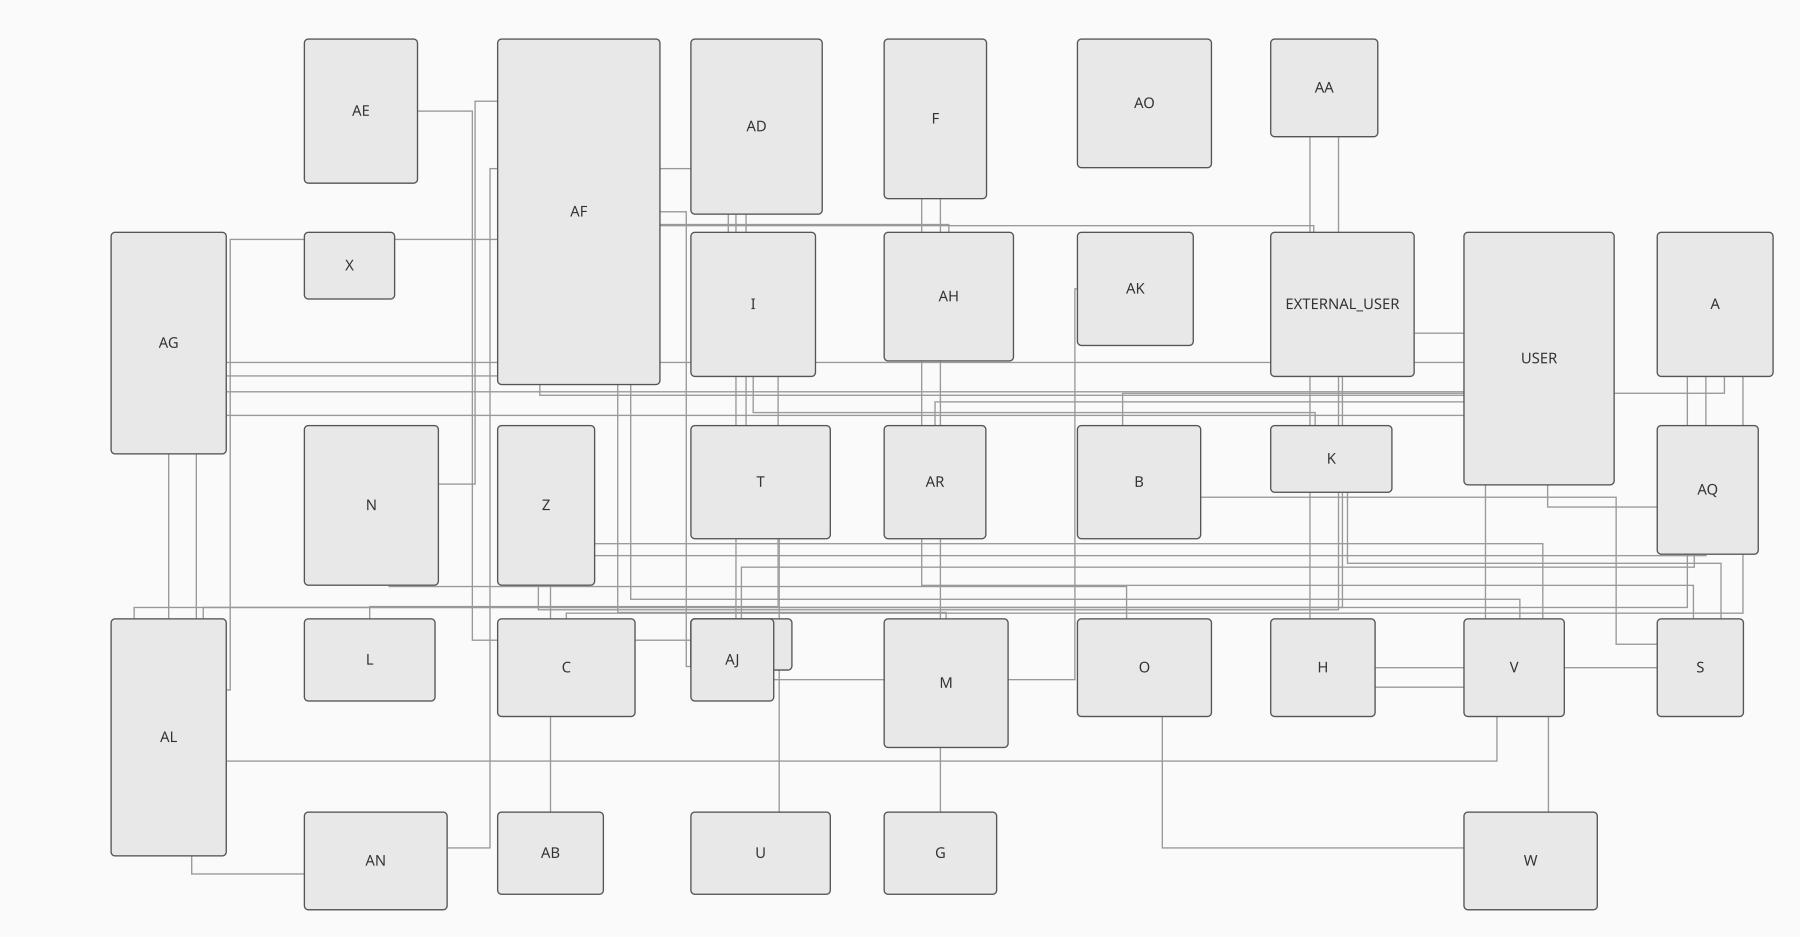
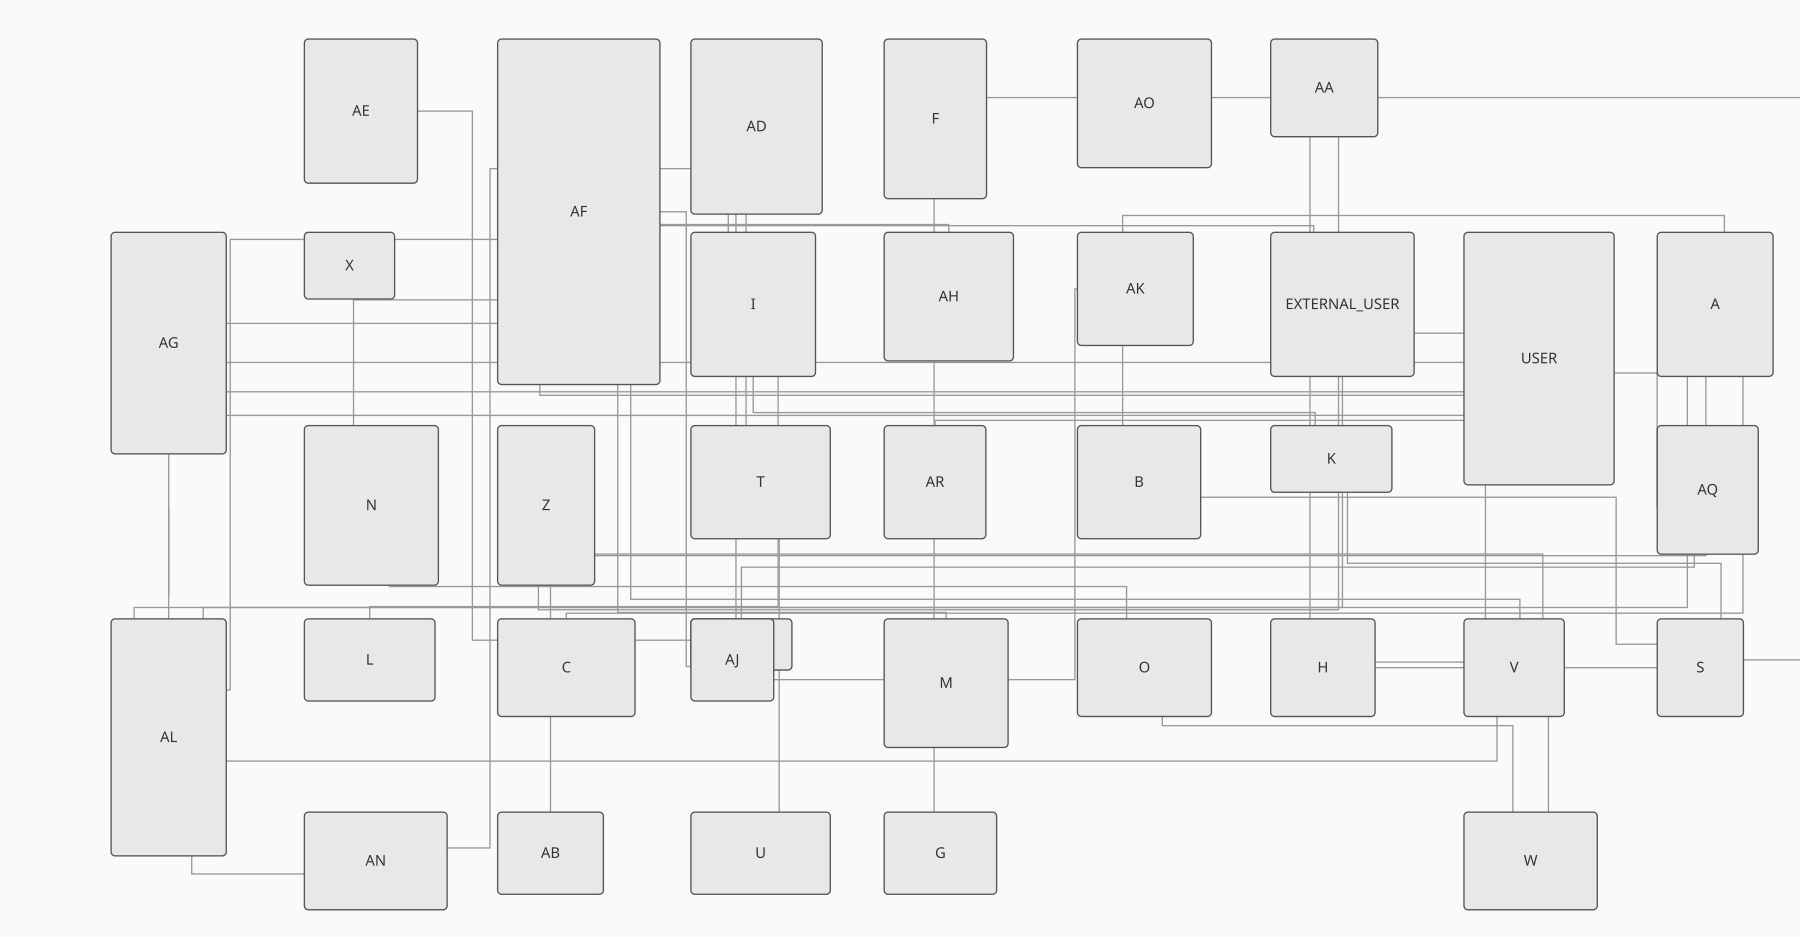
The router sees what is already on the canvas
Sequential routing: frozen connectors route first among themselves, the
migration's edges follow in index order, and every candidate pays for
its crossings against everything already placed, so each pair is priced
exactly once and a route can dodge a connector instead of crossing it.
The detour grid widens to six steps beyond the channel. Calibration
against the hand layout improves again, 33 and 491 to 27 and 323, with
the whole history in the run's own printout. The straight section is
byte-identical, which is the style boolean proving the change lives
entirely in the routed model. The fixture renderer carries the same
rule; every pin and number re-derived.

diff --git a/example/erd/erd.c b/example/erd/erd.c
@@ -197,6 +197,32 @@ static void anchor(const Erd *g, const double *v, long e0, long e1, Route *r)
     }
 }
 
+/* Which edges edge A can already see when it routes. Mode 0 is the frozen pass (earlier
+ * frozen edges only), mode 1 the scoring pass (all frozen, plus earlier migration edges),
+ * mode 2 the full report (everything earlier). Later edges pay for a pair's crossing, so
+ * each pair is priced exactly once. */
+static int routed_before(const Erd *g, long b, long a, int mode)
+{
+    if (b == a) return 0;
+    if (mode == 0) return !g->enew[b] && b < a;
+    if (mode == 1) return !g->enew[b] || b < a;
+    return b < a;
+}
+
+static long routes_cross(const Route *p, const Route *q);
+
+static long cand_cross(const Erd *g, const Route *rt, const Route *cand, long a, int mode)
+{
+    long b, k = 0;
+    for (b = 0; b < g->ne; b++) {
+        if (!routed_before(g, b, a, mode)) continue;
+        if (g->e[a][0] == g->e[b][0] || g->e[a][0] == g->e[b][1] ||
+            g->e[a][1] == g->e[b][0] || g->e[a][1] == g->e[b][1]) continue;
+        k += routes_cross(cand, &rt[b]);
+    }
+    return k;
+}
+
 /* Route edge A as Workbench draws one: orthogonal segments at 0 and 90 degrees, never a
  * diagonal. The candidates are the two L shapes and Z shapes whose middle segment slides
  * across the channel between the endpoints and one step beyond it on either side, which is
@@ -206,13 +232,15 @@ static void anchor(const Erd *g, const double *v, long e0, long e1, Route *r)
  * frozen edges get routed against the frozen diagram alone. Returns the route's own cost,
  * penetration at W_TIER plus length; crossings are the caller's to add, since they depend on
  * every other route. */
-static double route_edge(const Erd *g, const double *v, long a, long ntab, Route *r,
-                         double *pen_out)
+static double route_edge(const Erd *g, const double *v, long a, long ntab,
+                         const Route *rt, int mode, Route *r,
+                         double *pen_out, long *crs_out)
 {
-    static const double T[7] = { -0.25, 0.15, 0.3, 0.5, 0.7, 0.85, 1.25 };
+    static const double TIN[5]  = { 0.15, 0.3, 0.5, 0.7, 0.85 };
+    static const double TOUT[6] = { -0.75, -0.5, -0.25, 1.25, 1.5, 1.75 };
     double ax, ay, bx, by, bestcost = 0, bestpen = 0;
-    long e0 = g->e[a][0], e1 = g->e[a][1];
-    int c, have = 0, nc = g->straight ? 1 : 16;
+    long e0 = g->e[a][0], e1 = g->e[a][1], bestcrs = 0;
+    int c, have = 0, nc = 24;
     pos(g, v, e0, &ax, &ay);
     pos(g, v, e1, &bx, &by);
     if (g->straight) {
@@ -232,8 +260,13 @@ static double route_edge(const Erd *g, const double *v, long a, long ntab, Route
             pen += through(g, v, i, cand.px[0], cand.py[0], cand.px[1], cand.py[1]);
         }
         *r = cand;
-        if (pen_out) *pen_out = pen;
-        return W_TIER * pen + seglen(cand.px[1] - cand.px[0], cand.py[1] - cand.py[0]);
+        {
+            long crs = cand_cross(g, rt, &cand, a, mode);
+            if (pen_out) *pen_out = pen;
+            if (crs_out) *crs_out = crs;
+            return W_TIER * (pen + (double)crs)
+                 + seglen(cand.px[1] - cand.px[0], cand.py[1] - cand.py[0]);
+        }
     }
     for (c = 0; c < nc; c++) {
         Route cand;
@@ -250,13 +283,23 @@ static double route_edge(const Erd *g, const double *v, long a, long ntab, Route
         } else if (c == 1) {                /* L: vertical, then horizontal */
             cand.px[0] = xa; cand.py[0] = ay; cand.px[1] = xa; cand.py[1] = yb;
             cand.px[2] = bx; cand.py[2] = yb; cand.np = 3;
-        } else if (c < 9) {                 /* Z: vertical middle segment */
-            double mx = ax + T[c - 2] * (bx - ax);
+        } else if (c < 7) {                 /* Z, vertical middle, inside the channel */
+            double mx = ax + TIN[c - 2] * (bx - ax);
             cand.px[0] = ax; cand.py[0] = ya; cand.px[1] = mx; cand.py[1] = ya;
             cand.px[2] = mx; cand.py[2] = yb; cand.px[3] = bx; cand.py[3] = yb;
             cand.np = 4;
-        } else {                            /* Z: horizontal middle segment */
-            double my = ay + T[c - 9] * (by - ay);
+        } else if (c < 12) {                /* Z, horizontal middle, inside the channel */
+            double my = ay + TIN[c - 7] * (by - ay);
+            cand.px[0] = xa; cand.py[0] = ay; cand.px[1] = xa; cand.py[1] = my;
+            cand.px[2] = xb; cand.py[2] = my; cand.px[3] = xb; cand.py[3] = by;
+            cand.np = 4;
+        } else if (c < 18) {                /* Z, vertical middle, detouring beyond it */
+            double mx = ax + TOUT[c - 12] * (bx - ax);
+            cand.px[0] = ax; cand.py[0] = ya; cand.px[1] = mx; cand.py[1] = ya;
+            cand.px[2] = mx; cand.py[2] = yb; cand.px[3] = bx; cand.py[3] = yb;
+            cand.np = 4;
+        } else {                            /* Z, horizontal middle, detouring */
+            double my = ay + TOUT[c - 18] * (by - ay);
             cand.px[0] = xa; cand.py[0] = ay; cand.px[1] = xa; cand.py[1] = my;
             cand.px[2] = xb; cand.py[2] = my; cand.px[3] = xb; cand.py[3] = by;
             cand.np = 4;
@@ -292,15 +335,23 @@ static double route_edge(const Erd *g, const double *v, long a, long ntab, Route
         for (s = 0; s + 1 < cand.np; s++)
             len += fabs(cand.px[s+1] - cand.px[s]) + fabs(cand.py[s+1] - cand.py[s]);
         cost = W_TIER * pen + len;
-        if (!have || cost < bestcost) {
-            have = 1; bestcost = cost; bestpen = pen; *r = cand;
+        if (!have || cost < bestcost + 1e-9) {
+            long crs;
+            /* crossings are the expensive part of a candidate's price, so they are only
+             * computed when penetration and length alone have not already lost */
+            crs = cand_cross(g, rt, &cand, a, mode);
+            cost += W_TIER * (double)crs;
+            if (!have || cost < bestcost) {
+                have = 1; bestcost = cost; bestpen = pen; bestcrs = crs; *r = cand;
+            }
+            /* A clean candidate among the in-channel shapes ends the search: those shapes
+             * share their Manhattan length, the detours are longer, and an equal-cost later
+             * shape would lose the tie anyway. */
+            if (bestpen == 0 && bestcrs == 0 && c < 12) break;
         }
-        /* A clean candidate ends the search exactly: every in-range shape has the same
-         * Manhattan length and the detours are longer, so nothing later can cost less, and
-         * an equal-cost later shape would lose the tie anyway. */
-        if (bestpen == 0) break;
     }
     if (pen_out) *pen_out = bestpen;
+    if (crs_out) *crs_out = bestcrs;
     return bestcost;
 }
 
@@ -327,21 +378,12 @@ static long routes_cross(const Route *p, const Route *q)
 static double frozen_part(Erd *g)
 {
     double total = 0;
-    long a, b;
-    for (a = 0; a < g->ne; a++) {
+    long a;
+    for (a = 0; a < g->ne; a++)
         g->enew[a] = g->e[a][0] >= g->nfixed || g->e[a][1] >= g->nfixed;
+    for (a = 0; a < g->ne; a++)
         if (!g->enew[a])
-            total += route_edge(g, NULL, a, g->nfixed, &g->rt[a], NULL);
-    }
-    for (a = 0; a < g->ne; a++) {
-        if (g->enew[a]) continue;
-        for (b = a + 1; b < g->ne; b++) {
-            if (g->enew[b]) continue;
-            if (g->e[a][0] == g->e[b][0] || g->e[a][0] == g->e[b][1] ||
-                g->e[a][1] == g->e[b][0] || g->e[a][1] == g->e[b][1]) continue;
-            total += W_TIER * (double)routes_cross(&g->rt[a], &g->rt[b]);
-        }
-    }
+            total += route_edge(g, NULL, a, g->nfixed, g->rt, 0, &g->rt[a], NULL, NULL);
     return total;
 }
 
@@ -349,12 +391,14 @@ static double score(const double *v, void *ctx)
 {
     Erd *g = ctx;
     double total = g->konst;
-    long a, b, i;
+    long a, i;
     int s;
-    /* the migration's edges, routed fresh around wherever its tables currently sit */
+    /* the migration's edges, routed in index order, each seeing every fixed connector and
+     * the migration edges already routed this evaluation; the route's cost already carries
+     * its crossings, so no pair is priced twice */
     for (a = 0; a < g->ne; a++)
         if (g->enew[a])
-            total += route_edge(g, v, a, g->n, &g->rt[a], NULL);
+            total += route_edge(g, v, a, g->n, g->rt, 1, &g->rt[a], NULL, NULL);
     /* the fixed connectors, penetrating any new table parked on top of them */
     for (a = 0; a < g->ne; a++) {
         if (g->enew[a]) continue;
@@ -363,14 +407,6 @@ static double score(const double *v, void *ctx)
                 total += W_TIER * apen(g, v, i, g->rt[a].px[s], g->rt[a].py[s],
                                        g->rt[a].px[s+1], g->rt[a].py[s+1]);
     }
-    /* crossings where at least one side belongs to the migration */
-    for (a = 0; a < g->ne; a++)
-        for (b = a + 1; b < g->ne; b++) {
-            if (!g->enew[a] && !g->enew[b]) continue;
-            if (g->e[a][0] == g->e[b][0] || g->e[a][0] == g->e[b][1] ||
-                g->e[a][1] == g->e[b][0] || g->e[a][1] == g->e[b][1]) continue;
-            total += W_TIER * (double)routes_cross(&g->rt[a], &g->rt[b]);
-        }
     return total;
 }
 
@@ -382,19 +418,15 @@ static double score(const double *v, void *ctx)
 static void layout_report(const Erd *g, const double *v, Route *rt,
                           long *ncross, double *pen)
 {
-    long a, b, k = 0;
+    long a, k = 0;
     double p = 0;
     for (a = 0; a < g->ne; a++) {
         double ep;
-        route_edge(g, v, a, g->n, &rt[a], &ep);
+        long ec;
+        route_edge(g, v, a, g->n, rt, 2, &rt[a], &ep, &ec);
         p += ep;
+        k += ec;
     }
-    for (a = 0; a < g->ne; a++)
-        for (b = a + 1; b < g->ne; b++) {
-            if (g->e[a][0] == g->e[b][0] || g->e[a][0] == g->e[b][1] ||
-                g->e[a][1] == g->e[b][0] || g->e[a][1] == g->e[b][1]) continue;
-            k += routes_cross(&rt[a], &rt[b]);
-        }
     *ncross = k;
     *pen = p;
 }

diff --git a/example/erd/data/render.py b/example/erd/data/render.py
@@ -43,29 +43,60 @@ def pen_of(pts, figs, skip):
     return p
 
 
-def route(a, b, figs, cx, offs):
+def seg_cross(a1, a2, b1, b2):
+    def orient(p, q, r):
+        return (q[0]-p[0])*(r[1]-p[1]) - (q[1]-p[1])*(r[0]-p[0])
+    d1, d2 = orient(a1, a2, b1), orient(a1, a2, b2)
+    d3, d4 = orient(b1, b2, a1), orient(b1, b2, a2)
+    return ((d1 > 0) != (d2 > 0)) and ((d3 > 0) != (d4 > 0))
+
+
+def cross_count(pts, others):
+    k = 0
+    for opts in others:
+        for s1 in zip(pts, pts[1:]):
+            for s2 in zip(opts, opts[1:]):
+                if seg_cross(s1[0], s1[1], s2[0], s2[1]):
+                    k += 1
+    return k
+
+
+TIN = [0.15, 0.3, 0.5, 0.7, 0.85]
+TOUT = [-0.75, -0.5, -0.25, 1.25, 1.5, 1.75]
+
+
+def route(a, b, figs, cx, offs, already):
+    """Same rule as erd.c: the candidate pays penetration and crossings against every edge
+    already routed, in-channel shapes first, a clean one ends the search."""
     (ax, ay), (bx, by) = cx[a], cx[b]
     fa, fb = figs[a], figs[b]
     oa, ob = offs
-    ya, xa = ay + oa * fa[3], ax + oa * fa[2]   # this edge's own departure lines
-    yb, xb = by + ob * fb[3], bx + ob * fb[2]   # and arrival lines
+    ya, xa = ay + oa * fa[3], ax + oa * fa[2]
+    yb, xb = by + ob * fb[3], bx + ob * fb[2]
     cands = [[(ax, ya), (xb, ya), (xb, by)], [(xa, ay), (xa, yb), (bx, yb)]]
-    for t in T:
+    for t in TIN:
         mx = ax + t * (bx - ax)
         cands.append([(ax, ya), (mx, ya), (mx, yb), (bx, yb)])
-    for t in T:
+    for t in TIN:
+        my = ay + t * (by - ay)
+        cands.append([(xa, ay), (xa, my), (xb, my), (xb, by)])
+    for t in TOUT:
+        mx = ax + t * (bx - ax)
+        cands.append([(ax, ya), (mx, ya), (mx, yb), (bx, yb)])
+    for t in TOUT:
         my = ay + t * (by - ay)
         cands.append([(xa, ay), (xa, my), (xb, my), (xb, by)])
     best, bestcost = None, None
-    for pts in cands:
+    for i, pts in enumerate(cands):
         pen = pen_of(pts, figs, {a, b})
         length = sum(abs(x2 - x1) + abs(y2 - y1)
                      for (x1, y1), (x2, y2) in zip(pts, pts[1:]))
-        cost = 100.0 * pen + length
+        crs = cross_count(pts, already)
+        cost = 100.0 * (pen + crs) + length
         if bestcost is None or cost < bestcost:
             best, bestcost = pts, cost
-        if pen == 0:
-            break
+            if pen == 0 and crs == 0 and i < 12:
+                break
     return best
 
 
@@ -124,10 +155,12 @@ def render(rev, path, mark_added, straight=False):
     out = ["<svg xmlns='http://www.w3.org/2000/svg' viewBox='0 0 %g %g' "
            "font-family='sans-serif'>" % (W, H),
            "<rect width='%g' height='%g' fill='#fafafa'/>" % (W, H)]
+    already = []
     for (a, b), off in zip(edges, slots):
         nu = mark_added and (a in added or b in added)
-        pts = [cx[a], cx[b]] if straight else route(a, b, figs, cx, off)
+        pts = [cx[a], cx[b]] if straight else route(a, b, figs, cx, off, already)
         pts = anchor(pts, figs[a], figs[b])
+        already.append(pts)
         out.append("<polyline points='%s' fill='none' stroke='%s' stroke-width='2'/>"
                    % (' '.join('%g,%g' % p for p in pts), '#c60' if nu else '#999'))
     for n, f in figs.items():

diff --git a/README.md b/README.md
@@ -89,7 +89,7 @@ above:
 
 Each edge model is calibrated against the one certain fact about the human's layout: it
 achieved zero crossings and zero edges under a table on screen. The straight model charges
-that clean screen 20 crossings and 1944 penetration; the routed model 33 and 491. Every
+that clean screen 20 crossings and 1944 penetration; the routed model 27 and 323. Every
 score means only as much as its calibration line, and the run prints both:
 
     34 tables already placed, 10 added by a migration, 59 foreign keys.
@@ -108,23 +108,23 @@ score means only as much as its calibration line, and the run prints both:
 
     ---- orthogonal routed connectors ----
 
-    centroid         201247   (place each new table at its neighbours' centroid)
-    human            149519   (where the human actually put them)
-               33 crossings, 491 penetration under this edge model
+    centroid         194470   (place each new table at its neighbours' centroid)
+    human            157552   (where the human actually put them)
+               27 crossings, 323 penetration under this edge model
 
     method         median        range    wins    sign-p   vs random
-    random         109471      41766.5       -         - the control
-    climb         52639.3      7611.66    5/5     0.0312      better
-    anneal        48265.6        20042    5/5     0.0312      better
-    ga            42920.1      7632.14    5/5     0.0312      better
+    random         100056      26357.5       -         - the control
+    climb         46133.7      18661.7    5/5     0.0312      better
+    anneal        50691.7      23410.8    5/5     0.0312      better
+    ga            40118.6      4554.91    5/5     0.0312      better
 
 All three searches beat the control on every seed under both models, and the heuristic loses
 under both: a table at its neighbours' centroid lands on the connectors running between its
 neighbours. Read the human rows through the calibration lines: most of the human's score in
 each section is that edge model failing to reproduce their real connectors, which is why even
 the control's median outscores them in the routed section. The comparison that survives is
-the feasibility pair. The routed seed-1 search layout reaches 0 penetration and 54 crossings;
-the human's routes to 491 and 33. Each is winning a different half of what the tool and the
+the feasibility pair. The routed seed-1 search layout reaches 0.4 penetration and 65 crossings;
+the human's routes to 323 and 27. Each is winning a different half of what the tool and the
 person jointly achieved as 0 and 0, and closing that gap is the router's open problem, not
 the search's. Connectors leave a table's border at that edge's own attachment point, spread
 by the table's degree, so no two connectors ever share a segment: an edge joins two tables

diff --git a/AGENTS.md b/AGENTS.md
@@ -102,10 +102,11 @@ and crossings at 100, connector length at 1, so length only ever breaks ties.
 Score the medium the reader sees. The ERD edges are routed orthogonally (L and Z shapes, the
 middle segment sliding across the channel) before anything is measured, because that is what
 the tool draws, and the router is calibrated against the one certain fact: the human's layout
-achieved 0 crossings and 0 penetration on screen. The run prints the router's shortfall (33
-and 491 at present, with border anchoring and per-edge attachment slots already in), and no
-score comparison against the human means more than that line allows. Closing that gap, more
-bends, routing aware of other routes, is the open problem the router owns.
+achieved 0 crossings and 0 penetration on screen. The run prints the router's shortfall (27
+and 323 at present, with border anchoring, per-edge attachment slots, and sequential routing
+aware of every connector already placed), and no score comparison against the human means
+more than that line allows. Closing the remainder, more bends and a grid router, is the open
+problem the router owns.
 
 ## What is open, in the order to take it
 
@@ -138,10 +139,10 @@ bends, routing aware of other routes, is the open problem the router owns.
    means the objective is missing what the human optimizes. Treat the human score as a
    reference, not a target to beat.
 3. **The router**, until it reproduces the human layout's 0 crossings and 0 penetration. The
-   current one (two bends, border anchors at per-edge attachment slots, routes blind to each
-   other) measures 33 and 491 on that layout, and the run prints the number so nobody
-   mistakes the floor for the human's. In rising order of cost: more bends; route edges
-   sequentially so each sees the ones already placed; a grid router.
+   current one (two bends, border anchors at per-edge attachment slots, sequential and aware
+   of every connector already placed) measures 27 and 323 on that layout, and the run prints
+   the number so nobody mistakes the floor for the human's. What remains: more bends; a grid
+   router.
    Every score comparison against the human sharpens exactly as fast as this number falls.
 4. **An anchor term**, which turns the incremental case into the general one. Let the frozen tables
    move, penalised by squared displacement from their old positions, and one weight then
